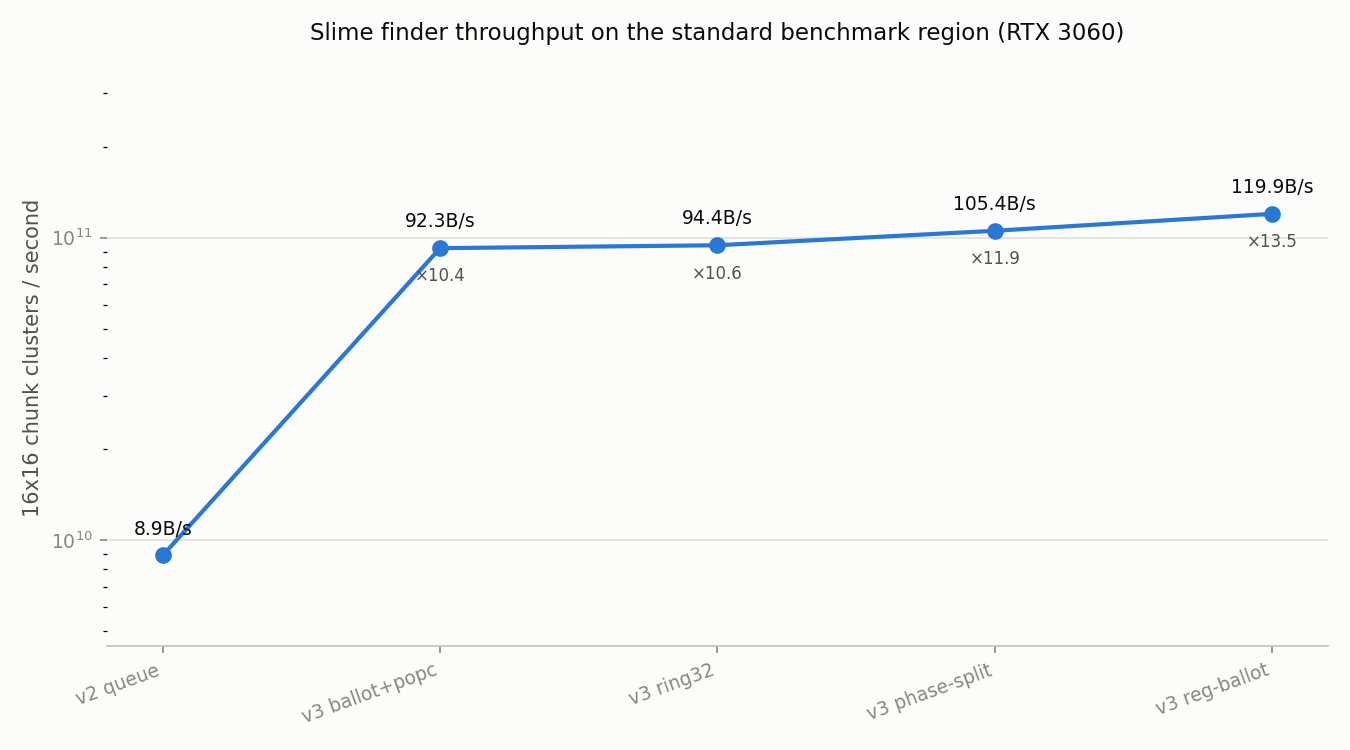
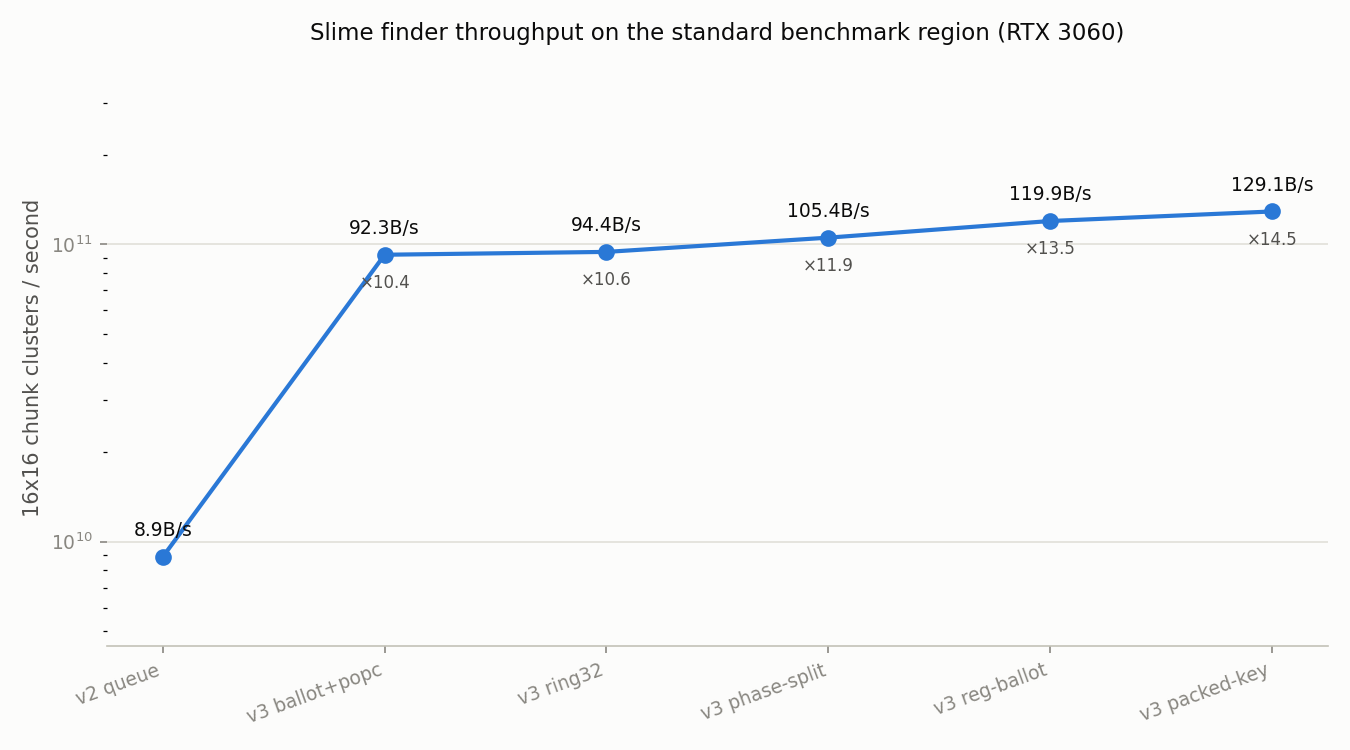
New improvement: v3 packed-key

diff --git a/README.md b/README.md
@@ -87,9 +87,17 @@ And tiles at the edge of the search region need "am I out of bounds?" checks
 while interior tiles (99% of them) don't, so the kernel is compiled in a
 checked and an unchecked flavor and each tile picks the right one.
 
+### v3 — packed-key — 129.1 G windows/s (x14.5)
+Tracking the best window used to be `if (v > best.score) { store score, x, z }`
+— a branch plus a few writes inside the hot loop. But the score (<= 256), the
+row and the column-slot all fit together in one 32-bit integer with the score
+in the top bits, so `best = max(best, packed)` — a single hardware max — tracks
+the winner *and where it is* at once, with no branch to make the warp diverge.
+The packed key is unpacked back into coordinates once per tile, in cold code.
+
 At this point the kernel runs close to the RTX 3060's raw integer-math limit,
 which is why the curve flattens. `make tune` re-picks the kernel shape for a
-different GPU (128 threads x 8 chunks per thread wins on the 3060), and
+different GPU (256 threads x 8 chunks per thread wins on the 3060), and
 `make verify` checks everything against a straight CPU transcription of the
 Java RNG, including its one-in-200-million `nextInt` rejection edge case.
 